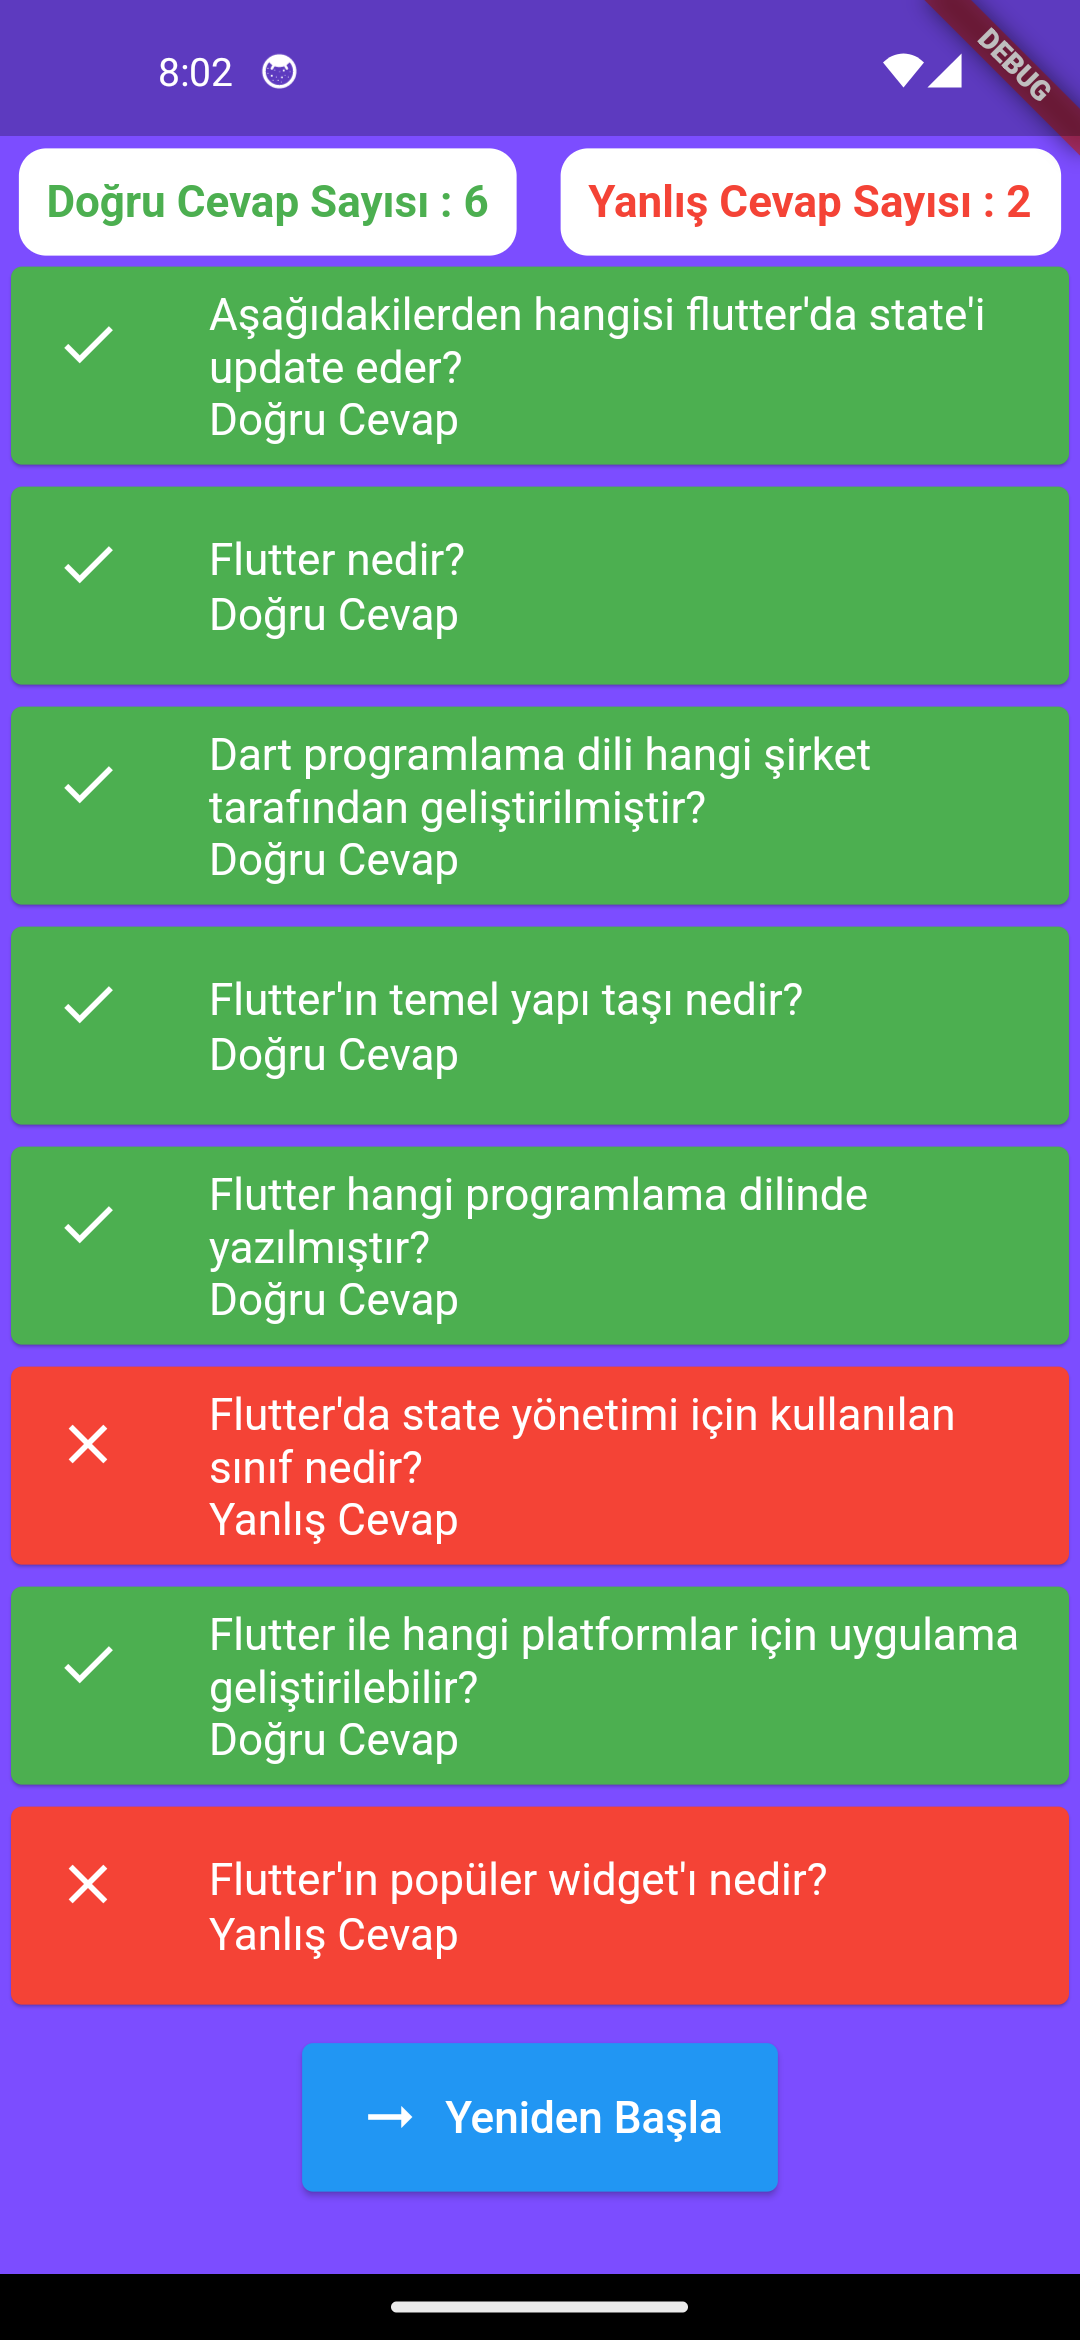
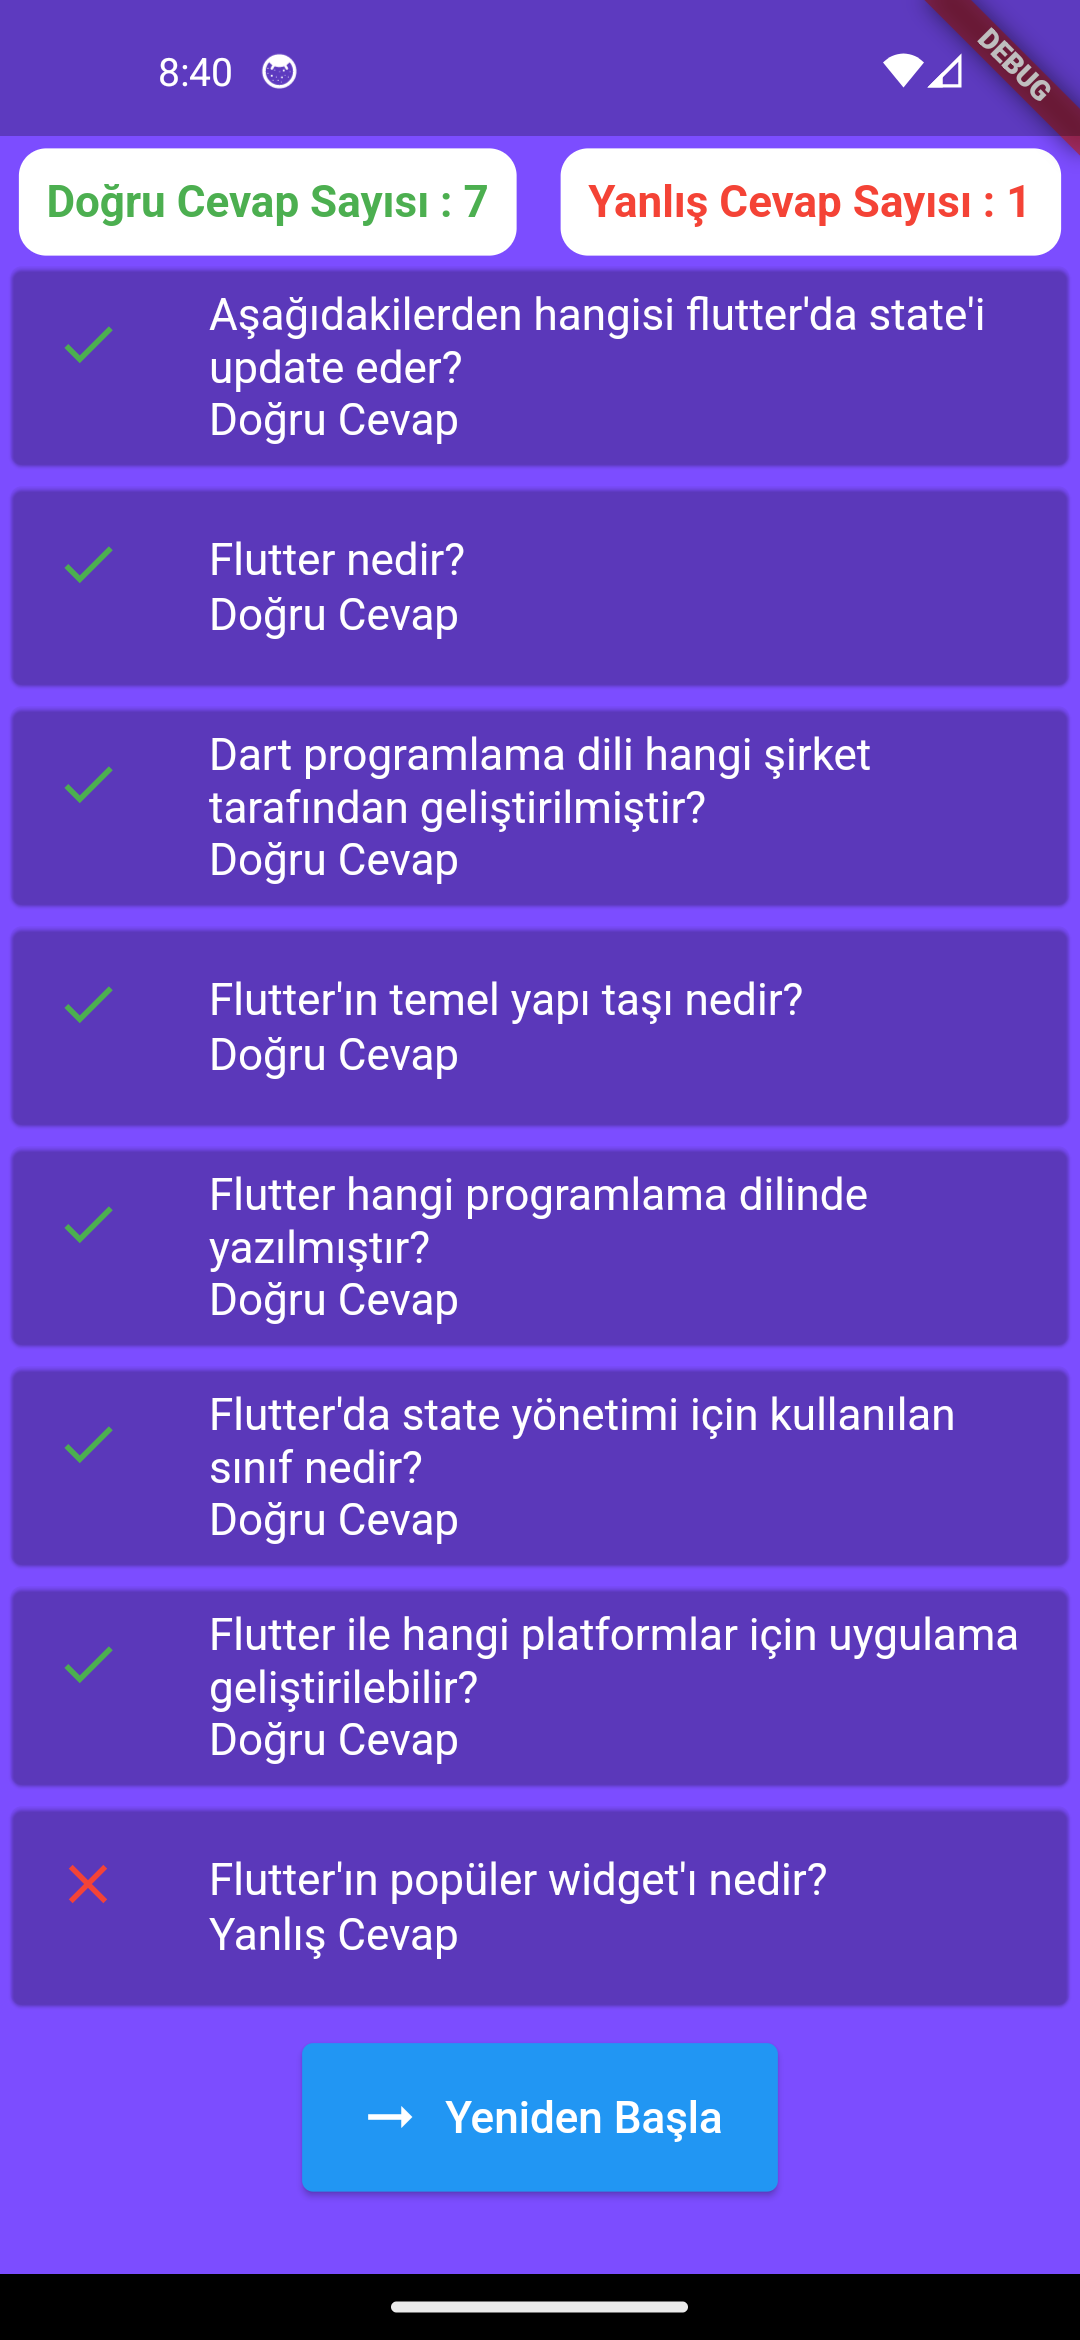
07.11.2023

diff --git a/lib/result_screen.dart b/lib/result_screen.dart
@@ -1,9 +1,9 @@
 import 'package:flutter/material.dart';
 
 class ResultScreen extends StatelessWidget {
-  final List<String> questions;
-  final List<String> selectedAnswers;
-  final List<String> correctAnswers;
+  final List<String> questions; // Soruların listesi
+  final List<String> selectedAnswers; // Kullanıcının seçtiği cevapların listesi
+  final List<String> correctAnswers; // Doğru cevapların listesi
 
   const ResultScreen({
     Key? key,
@@ -14,13 +14,13 @@ class ResultScreen extends StatelessWidget {
 
   @override
   Widget build(BuildContext context) {
-    final int totalQuestions = questions.length;
+    final int totalQuestions = questions.length; // Toplam soru sayısı
     final int correctCount = selectedAnswers.where((answer) {
       final index = selectedAnswers.indexOf(answer);
       return answer == correctAnswers[index];
-    }).length;
+    }).length; // Doğru cevap sayısı
 
-    final int incorrectCount = totalQuestions - correctCount;
+    final int incorrectCount = totalQuestions - correctCount; // Yanlış cevap sayısı
 
     return Scaffold(
       backgroundColor: Colors.deepPurpleAccent,
@@ -35,7 +35,7 @@ class ResultScreen extends StatelessWidget {
                 Container(
                   padding: EdgeInsets.all(10),
                   decoration: BoxDecoration(
-                    color: Colors.white, // Doğru cevap sayısı yeşil renk
+                    color: Colors.white, // Doğru cevap sayısı kutusunun arka plan rengi
                     borderRadius: BorderRadius.circular(10),
                   ),
                   child: Text(
@@ -43,7 +43,7 @@ class ResultScreen extends StatelessWidget {
                     style: TextStyle(
                       fontSize: 16,
                       fontWeight: FontWeight.bold,
-                      color: Colors.green,
+                      color: Colors.green, // Doğru cevap sayısı yazı rengi
                     ),
                   ),
                 ),
@@ -51,7 +51,7 @@ class ResultScreen extends StatelessWidget {
                 Container(
                   padding: EdgeInsets.all(10),
                   decoration: BoxDecoration(
-                    color: Colors.white, // Yanlış cevap sayısı kırmızı renk
+                    color: Colors.white, // Yanlış cevap sayısı kutusunun arka plan rengi
                     borderRadius: BorderRadius.circular(10),
                   ),
                   child: Text(
@@ -59,7 +59,7 @@ class ResultScreen extends StatelessWidget {
                     style: TextStyle(
                       fontSize: 16,
                       fontWeight: FontWeight.bold,
-                      color: Colors.red,
+                      color: Colors.red, // Yanlış cevap sayısı yazı rengi
                     ),
                   ),
                 ),
@@ -72,7 +72,7 @@ class ResultScreen extends StatelessWidget {
                 final isCorrect = selectedAnswer == correctAnswers[index];
 
                 return Card(
-                  color: isCorrect ? Colors.green : Colors.red,
+                  color: isCorrect ? Colors.transparent : Colors.transparent, // Doğru cevap, yanlış cevap arka plan rengi
                   child: ListTile(
                     title: Text(
                       question,
@@ -83,8 +83,8 @@ class ResultScreen extends StatelessWidget {
                       style: TextStyle(fontSize: 16, color: Colors.white),
                     ),
                     leading: isCorrect
-                        ? Icon(Icons.check, color: Colors.white)
-                        : Icon(Icons.close, color: Colors.white),
+                        ? Icon(Icons.check, color: Colors.green) // Doğru cevap işareti
+                        : Icon(Icons.close, color: Colors.red), // Yanlış cevap işareti
                   ),
                 );
               }),
@@ -92,16 +92,17 @@ class ResultScreen extends StatelessWidget {
             SizedBox(height: 10),
             ElevatedButton.icon(
               onPressed: () {
+                // Yeniden başlat düğmesine tıklanınca uygulamayı baştan başlatır.
                 Navigator.popUntil(context, (route) => route.isFirst);
               },
-              icon: const Icon(Icons.arrow_right_alt),
+              icon: const Icon(Icons.arrow_right_alt), // Düğme ikonu
               label: const Text(
                 "Yeniden Başla",
                 style: TextStyle(fontSize: 16),
               ),
               style: OutlinedButton.styleFrom(
-                foregroundColor: Colors.white,
-                padding: const EdgeInsets.fromLTRB(20, 15, 20, 15),
+                foregroundColor: Colors.white, // Yazı rengi
+                padding: const EdgeInsets.fromLTRB(20, 15, 20, 15), // Kenar boşluğu
               ),
             ),
           ],

diff --git a/lib/question_screen.dart b/lib/question_screen.dart
@@ -11,31 +11,38 @@ class QuestionScreen extends StatefulWidget {
 }
 
 class _QuestionScreenState extends State<QuestionScreen> {
+  // QuizQuestions sınıfından bir nesne oluşturulur.
   final quizQuestions = QuizQuestions();
   List<QuizQuestion> questions = [];
-  int currentQuestionIndex = 0;
-  int correctAnswers = 0;
+  int currentQuestionIndex = 0; // Şu anki sorunun indeksi
+  int correctAnswers = 0; // Doğru cevap sayısı
 
   @override
   void initState() {
     super.initState();
+    // Soruları almak için 'quizQuestions' nesnesini kullanır.
     questions = quizQuestions.getQuestions();
   }
 
+  // Kullanıcının seçtiği cevapları saklamak için bir liste oluşturulur.
   List<String> selectedAnswers = [];
 
+  // Cevabın doğruluğunu kontrol eden işlev
   void checkAnswer(String selectedAnswer) {
+    // Seçilen cevap doğruysa doğru cevap sayısını artırır.
     if (questions[currentQuestionIndex].correctAnswer == selectedAnswer) {
       setState(() {
         correctAnswers++;
       });
     }
 
+    // Eğer daha fazla soru varsa bir sonraki soruya geçer, aksi takdirde sonuç ekranına yönlendirir.
     if (currentQuestionIndex < questions.length - 1) {
       setState(() {
         currentQuestionIndex++;
       });
     } else {
+      // Soru metinlerini, seçilen cevapları ve doğru cevapları içeren sonuç ekranına yönlendirir.
       final List<String> questionTexts = questions.map((q) => q.question).toList();
       Navigator.push(
         context,
@@ -49,11 +56,13 @@ class _QuestionScreenState extends State<QuestionScreen> {
       );
     }
 
+    // Seçilen cevapları saklamak için listeye ekler.
     selectedAnswers.add(selectedAnswer);
   }
 
   @override
   Widget build(BuildContext context) {
+    // Şu anki soruyu alır.
     final question = questions[currentQuestionIndex];
 
     return Scaffold(
@@ -63,7 +72,7 @@ class _QuestionScreenState extends State<QuestionScreen> {
           mainAxisAlignment: MainAxisAlignment.center,
           children: [
             Padding(
-              padding: const EdgeInsets.all(16.0), // Soru etrafına padding ekledik
+              padding: const EdgeInsets.all(16.0), // Soru metni etrafına biraz boşluk ekler.
               child: Text(
                 "Soru ${currentQuestionIndex + 1}: ${question.question}",
                 style: TextStyle(fontSize: 19, color: Colors.white),
@@ -75,13 +84,13 @@ class _QuestionScreenState extends State<QuestionScreen> {
               children: question.answers.asMap().entries.map((entry) {
                 final index = entry.key;
                 final answer = entry.value;
-                final option = String.fromCharCode(65 + index);
+                final option = String.fromCharCode(65 + index); // A, B, C, D gibi seçenek harfini oluşturur.
 
                 return Column(
                   children: [
                     Container(
                       height: 40,
-                      margin: const EdgeInsets.all(1.0), // Cevap butonlarına margin ekledik
+                      margin: const EdgeInsets.all(1.0), // Cevap butonlarına biraz boşluk ekler.
                       child: ElevatedButton(
                         onPressed: () {
                           checkAnswer(answer);

diff --git a/lib/start_screen.dart b/lib/start_screen.dart
@@ -1,18 +1,29 @@
+// Flutter materyal tasarım kütüphanesini içeri aktarır.
 import 'package:flutter/material.dart';
+// 'question_screen.dart' dosyasını içeri aktarır. Bu dosya sıradaki soru ekranının tasarımını tanımlar.
 import 'question_screen.dart';
 
+// 'StartScreen' adında bir StatelessWidget sınıfı oluşturur.
 class StartScreen extends StatelessWidget {
+  // Constructor tanımlanır.
   const StartScreen({Key? key}) : super(key: key);
 
+  // Ekranın görünümünü oluşturmak için 'build' metodu kullanılır.
   @override
   Widget build(BuildContext context) {
+    // Bir Scaffold widget'ı kullanarak temel sayfa yapısını oluşturur.
     return Scaffold(
+      // Sayfanın arka plan rengini belirler.
       backgroundColor: Colors.deepPurpleAccent,
+      // Sayfanın içeriği 'Center' widget'ı ile merkezlenir.
       body: Center(
         child: Column(
+          // Sütunun ana eksenini ortalar.
           mainAxisAlignment: MainAxisAlignment.center,
           children: [
+            // Bir resim ekler.
             Image.asset("assets/image.png", width: 325),
+            // Başlık metni ekler.
             const Text(
               "Quiz App",
               style: TextStyle(
@@ -21,22 +32,24 @@ class StartScreen extends StatelessWidget {
                 fontWeight: FontWeight.bold,
               ),
             ),
-            SizedBox(height: 8),
+            SizedBox(height: 8), // Boşluk ekler.
+            // Başlat düğmesini ekler.
             ElevatedButton.icon(
               onPressed: () {
+                // Navigator kullanarak başka bir ekranı başlatır.
                 Navigator.push(
                   context,
                   MaterialPageRoute(builder: (context) => QuestionScreen()),
                 );
               },
-              icon: const Icon(Icons.arrow_right_alt),
+              icon: const Icon(Icons.arrow_right_alt), // Düğme ikonu.
               label: const Text(
                 "Start",
                 style: TextStyle(fontSize: 22),
               ),
               style: ElevatedButton.styleFrom(
-                foregroundColor: Colors.white,
-                padding: const EdgeInsets.fromLTRB(25, 12.5, 25, 12.5),
+                foregroundColor: Colors.white, // Yazı rengi.
+                padding: const EdgeInsets.fromLTRB(25, 12.5, 25, 12.5), // Kenar boşluğu.
               ),
             )
           ],

diff --git a/lib/data/questions.dart b/lib/data/questions.dart
@@ -1,13 +1,16 @@
+// QuizQuestion sınıfı tanımlanır. Bu sınıf, bir soruyu, cevapları ve doğru cevabı temsil eder.
 class QuizQuestion {
-  final String question;
-  final List<String> answers;
-  final String correctAnswer;
+  final String question; // Soru metni
+  final List<String> answers; // Cevapların listesi
+  final String correctAnswer; // Doğru cevap
 
+  // QuizQuestion sınıfının constructor'ı, soru, cevaplar ve doğru cevap alır.
   const QuizQuestion(this.question, this.answers, this.correctAnswer);
 }
 
+// Dizi içinde çeşitli sorular ve bunların cevapları oluşturulur.
 const List<QuizQuestion> questions = [
-    QuizQuestion(
+  QuizQuestion(
     "Aşağıdakilerden hangisi flutter'da state'i update eder?",
     ["constructor", "class", "setState", "statelesswidget"],
     "setState",
@@ -53,3 +56,4 @@ const List<QuizQuestion> questions = [
     "Scaffold",
   ),
 ];
+

diff --git a/lib/main.dart b/lib/main.dart
@@ -1,6 +1,15 @@
+// Flutter materyal tasarım kütüphanesini içeri aktarır.
 import 'package:flutter/material.dart';
+// 'start_screen.dart' dosyasını içeri aktarır. Bu dosya başlangıç ekranının görünümünü tanımlar.
 import 'start_screen.dart';
 
 void main() {
-  runApp(const MaterialApp(home: StartScreen()));
+  // Flutter uygulamasını başlatır.
+  runApp(
+    // MaterialApp, uygulamanın temel yapı taşıdır ve uygulamanın genel tema ve yapılandırmasını sağlar.
+    const MaterialApp(
+      // Ana sayfa olarak 'StartScreen' sınıfından bir örneği kullanır. 
+      home: StartScreen(),
+    ),
+  );
 }

diff --git a/lib/models/quiz_questions.dart b/lib/models/quiz_questions.dart
@@ -1,7 +1,9 @@
 import 'package:quiz_app_workshop/data/questions.dart';
 
+// 'QuizQuestions' adında bir sınıf tanımlanır.
 class QuizQuestions {
+  // Soru verilerini almak için kullanılan metot.
   List<QuizQuestion> getQuestions() {
-    return questions;
+    return questions; // 'questions' değişkeni, 'questions.dart' dosyasından alınır ve bu soruların bir listesini döndürür.
   }
 }
